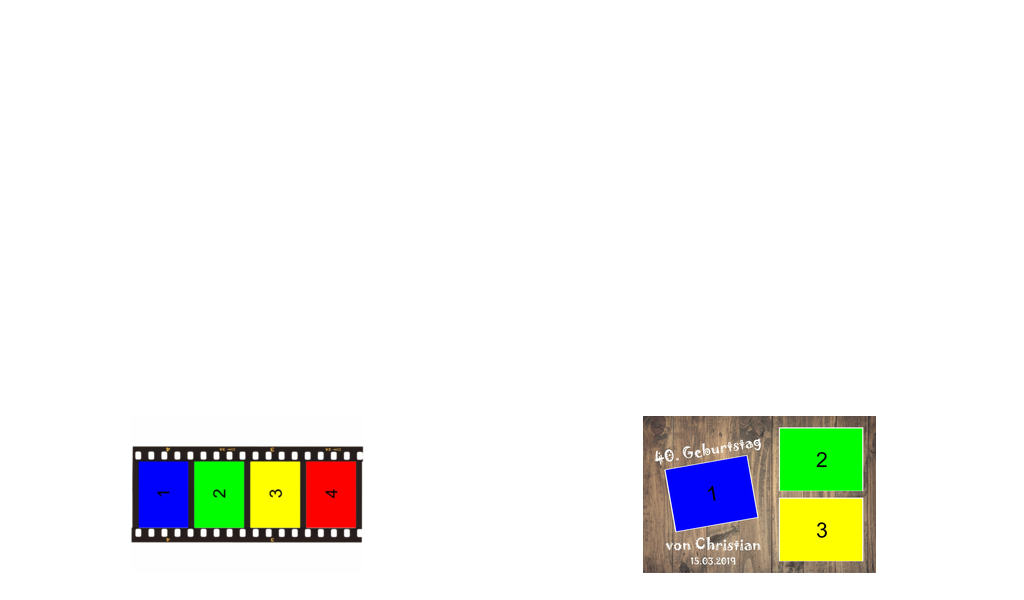
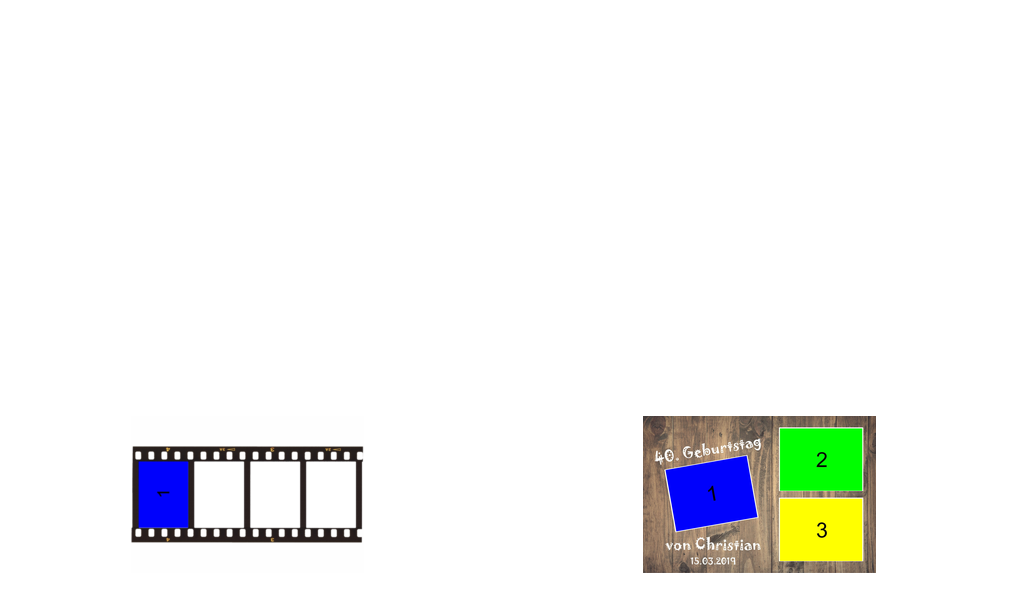
Please wait while printing

Changed region(s): [[0.1875, 0.75, 0.375, 0.9]]

diff --git a/photobooth.py b/photobooth.py
@@ -890,8 +890,14 @@ class Photobooth:
     def on_enter_PrintCard(self):
         logging.debug("now on_enter_PrintCard")
         # restart camera
+
+        self.overlay_screen_black = self.overlay_image(self.screen_black, 0, 5)
+        self.overlay_wait = self.overlay_image_transparency(self.screen_wait, 0, 7)
+
         self.stoppreview()
         self.startpreview()
+
+        self.remove_overlay(self.overlay_screen_black)
 
         if self.printPicsEnable == False:
             logging.debug("print enable = false")
@@ -974,6 +980,7 @@ class Photobooth:
         self.PrintDone()
 
     def on_exit_PrintCard(self):
+        self.remove_overlay(self.overlay_wait)
         logging.debug("now on_exit_PrintCard")
 
     # show refill paper instructions
